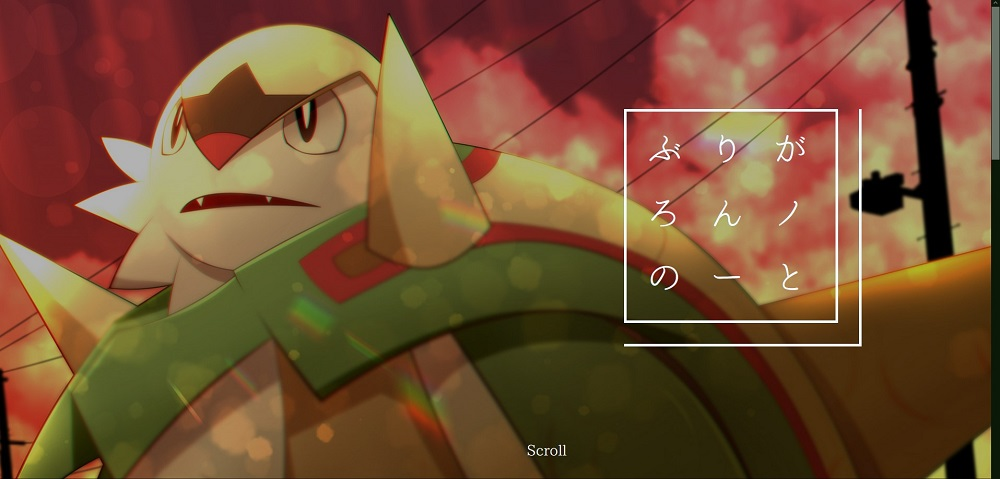
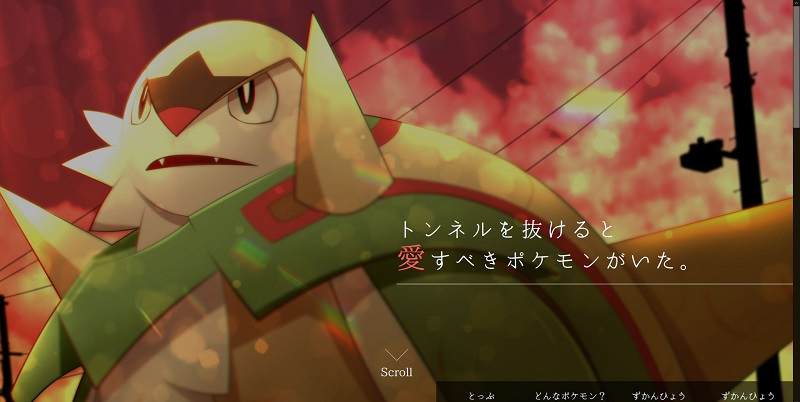
v0.3

diff --git a/chesnaught/css/common.css b/chesnaught/css/common.css
@@ -2,21 +2,21 @@
 
 @font-face
 {
-  font-family: 'はれのそら明朝';
+  font-family: "はれのそら明朝";
   src: url('https://cdn.leafscape.be/Harenosora/harenosora_web.woff2')
        format("woff2");
 }
 
 body{
-  background: #071d01;
+  background: #1d1201;
   color: aliceblue;
   min-width: 350px;
-  font-family: 'はれのそら明朝';
+  font-family: "はれのそら明朝";
 }
 
 .containerback{
   position: fixed;
-  z-index: 10;
+  z-index: 10000;
   width: 100%;
   height: 100vh;
   background: #000000;
@@ -60,50 +60,52 @@ body{
 
 .kuuhaku{
   position: absolute;
-  margin: auto;
-  top: 0%;
-  bottom: 10%;
-  left: 50%;
   right: 0%;
-  width: 400px;
-  height: 400px;
-  padding-right: 50px;
-  padding-bottom: 50px;
-  border-right : 5px solid aliceblue;
-  border-bottom : 5px solid aliceblue;
-  /* background: rgba(0, 0, 0, .3); */
+  bottom: 30%;
+  width: 50%;
+  border-bottom: 1px solid #fff;
+  padding-bottom: 10px;
 }
 
 h1{
-  margin: auto;
-  text-align: center;
-  font-family: 'はれのそら明朝';
-  font-weight: 50;
-  font-size: 65px;
-  width: 360px;
-  height: 400px;
-  padding-left: 40px;
-  letter-spacing: 55px;
-  line-height: 1.9em;
-  border : 5px solid aliceblue;
+  margin-bottom: 20px;
+  font-size: 50px;
+  font-weight: normal;
+  line-height: 1.3em;
+  letter-spacing: 10px;
 }
 
+h1 .lovered{
+  color: rgb(255, 93, 93);
+  display: inline;
+  font-size: 70px;
+}
 
+/* .hamberger{
+  position: fixed;
+  z-index: 1000;
+  right: 30px;
+  top: 30px;
+  width: 70px;
+  height: 70px;
+  background: #fff;
+  border-radius: 50%;
+} */
 
 nav{
-  width: 100%;
+  width: 45%;
   text-align: center;
   background: rgba(0, 0, 0, .6);
   position: absolute;
   z-index: 9999;
+  right: 0;
   bottom: 0;
 }
 
 .fixeddesu{
   position: fixed;
   top: 0;
-  height: 40px;
-  padding-bottom: 10px;
+  height: 60px;
 }
 
 nav ul{
@@ -111,6 +113,7 @@ nav ul{
   list-style: none;
   display: flex;
   justify-content: space-around;
+  margin: 0;
 }
 
 nav ul li{
@@ -120,14 +123,15 @@ nav ul li{
 nav ul li a{
   display: block;
   width: 100%;
-  height: auto;
+  height: 20px;
   color: aliceblue;
   text-decoration: none;
   text-align: center;
-  font-family: 'はれのそら明朝';
+  font-family: "はれのそら明朝";
   font-size: 22px;
   z-index: 1;
-  /* padding-top: 5px; */
+  padding-top: 20px;
+  padding-bottom: 20px;
 }
 
 nav ul li a:hover{
@@ -144,7 +148,7 @@ nav ul li a:hover{
   margin: auto;
   left: 0;
   right: 0;
-  bottom: 5%;
+  bottom: 2%;
   z-index: 2;
   display: block;
   -webkit-transform: translate(0, -50%);
@@ -160,7 +164,7 @@ nav ul li a:hover{
   left: 50%;
   width: 40px;
   height: 40px;
-  margin-left: -15px;
+  margin-left: -20px;
   border-left: 1px solid #fff;
   border-bottom: 1px solid #fff;
   -webkit-transform: rotate(-45deg);
@@ -201,7 +205,7 @@ h2{
   text-align: center;
   padding-bottom: 30px;
   padding-top: 10px;
-  font-family: 'はれのそら明朝';
+  font-family: "はれのそら明朝";
   font-weight: 100;
   font-size: 50px;
 }
@@ -211,7 +215,7 @@ h3{
   text-align: center;
   width: 100%;
   font-weight: 100;
-  font-family: 'はれのそら明朝';
+  font-family: "はれのそら明朝";
   font-size: 40px;
   margin-bottom: 130px;
 }
@@ -232,33 +236,58 @@ h3:after{
 }
 
 .profile{
+  position: relative;
   display: flex;
   justify-content: space-around;
   margin: auto;
+  border: 5px solid aliceblue;
   width: 100%;
   max-width: 1300px;
+  height: 600px;
+  margin-top: 200px;
   margin-bottom: 100px;
+}
+
+.profile h2{
+  position: absolute;
+  left: -8%;
+  top: -5%;
+  transform: rotate(-20deg);
+  width: 450px;
+  z-index: 10;
+  background: #1d1201;
 }
 
 .profile img{
   width: 250px;
-  box-shadow: 30px 30px 0px 0px rgb(0, 19, 0);
+  box-shadow: 30px 30px 0px 0px rgba(19, 11, 0, 0.493);
   margin-bottom: 50px;
 }
 
 .profile .thumbnails{
   width: 50%;
   text-align: center;
+  display: flex;
+  justify-content: center;
+  flex-wrap: wrap;
+  flex: 1;
+  align-items: center;
 }
 
 .profile .borderonly{
   border-right: 1px dashed aliceblue;
-  height: 700px;
+  /* height: 700px; */
 }
 
 .profile .proftext{
-  position: relative;
+  /* position: absolute; */
   width: 50%;
+}
+
+.profile .proftext .chestext{
+  position: absolute;
+  width: 100%;
+  bottom: 0;
 }
 
 .profile .proftext p{
@@ -323,33 +352,11 @@ h3:after{
 
 @media screen and (max-width:1500px){
   .kuuhaku{
-    position: absolute;
-    margin: auto;
-    top: 0%;
-    bottom: 10%;
-    left: 50%;
-    right: 0%;
-    width: 400px;
-    height: 400px;
-    padding-right: 50px;
-    padding-bottom: 50px;
-    border-right : 5px solid aliceblue;
-    border-bottom : 5px solid aliceblue;
-    /* background: rgba(0, 0, 0, .3); */
+
   }
   
   h1{
-    margin: auto;
-    text-align: center;
-    font-family: 'はれのそら明朝';
-    font-weight: 50;
-    font-size: 65px;
-    width: 360px;
-    height: 400px;
-    padding-left: 40px;
-    letter-spacing: 55px;
-    line-height: 1.9em;
-    border : 5px solid aliceblue;
+
   }
 }
 
@@ -373,10 +380,7 @@ h3:after{
     overflow: hidden;
   }
   h1{
-    position: absolute;
-    left: 0;
-    right: 0;
-    top: 25px;
+
   }
   .profile{
     display: block;

diff --git a/chesnaught/index.html b/chesnaught/index.html
@@ -24,9 +24,6 @@
   <div class="containerback">
     <div id="container"></div>
   </div>
-  <!-- <div class="topmain"> -->
-
-  <!-- </div> -->
   <nav>
     <ul>
       <li><a href="#">とっぷ</a></li>
@@ -37,21 +34,20 @@
   </nav>
   <div class="chesmain">
     <div class="kuuhaku">
-      <h1>ぶりがろんノのーと</h1>
+      <h1>トンネルを抜けると<br><div class="lovered">愛</div>すべきポケモンがいた。</h1>
     </div>
     <a href="#profile" id="yazirushi">Scroll<span></span></a>
   </div>
   <main>
-    <h2 id="profile">どんなポケモン？</h2>
     <div class="profile">
+      <h2 id="profile">どんなポケモン？</h2>
       <div class="thumbnails animate1">
-        <h3>写真</h3>
+        <!-- <h3>写真</h3> -->
         <img src="images/thumbnail.jpg">
-        <p>※ブリガロン資料より</p>
       </div>
-      <!-- <div class="borderonly"></div> -->
+      <div class="borderonly"></div>
       <div class="proftext animate2">
-        <h3>名前</h3>
+        <!-- <h3>名前</h3> -->
         <div class="chestext">
           <p class="animate2">ブリガロン</p>
           <p class="animate2">くさ・かくとう</p>
